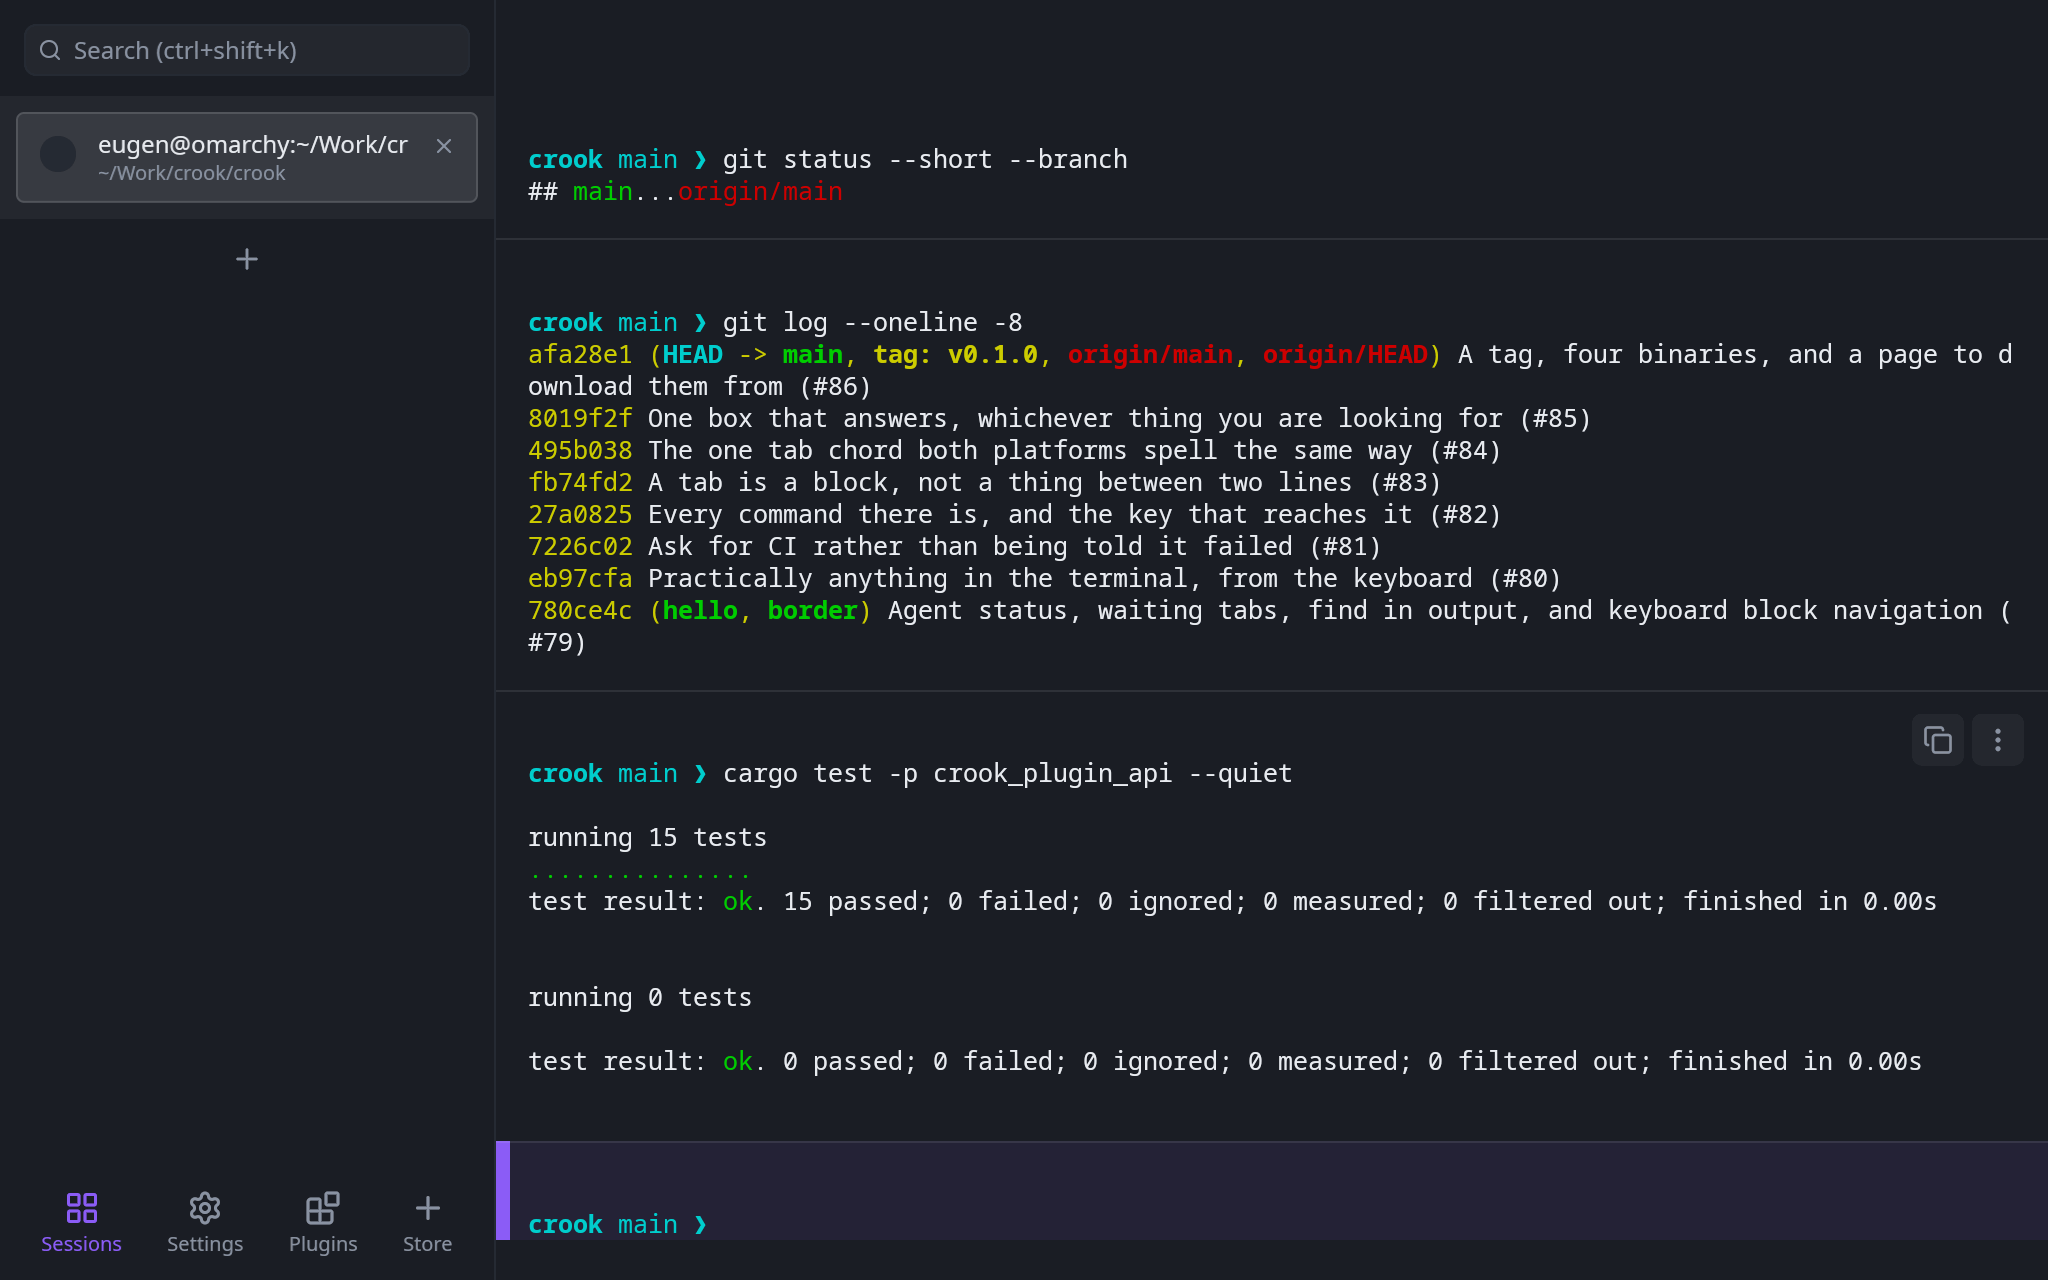
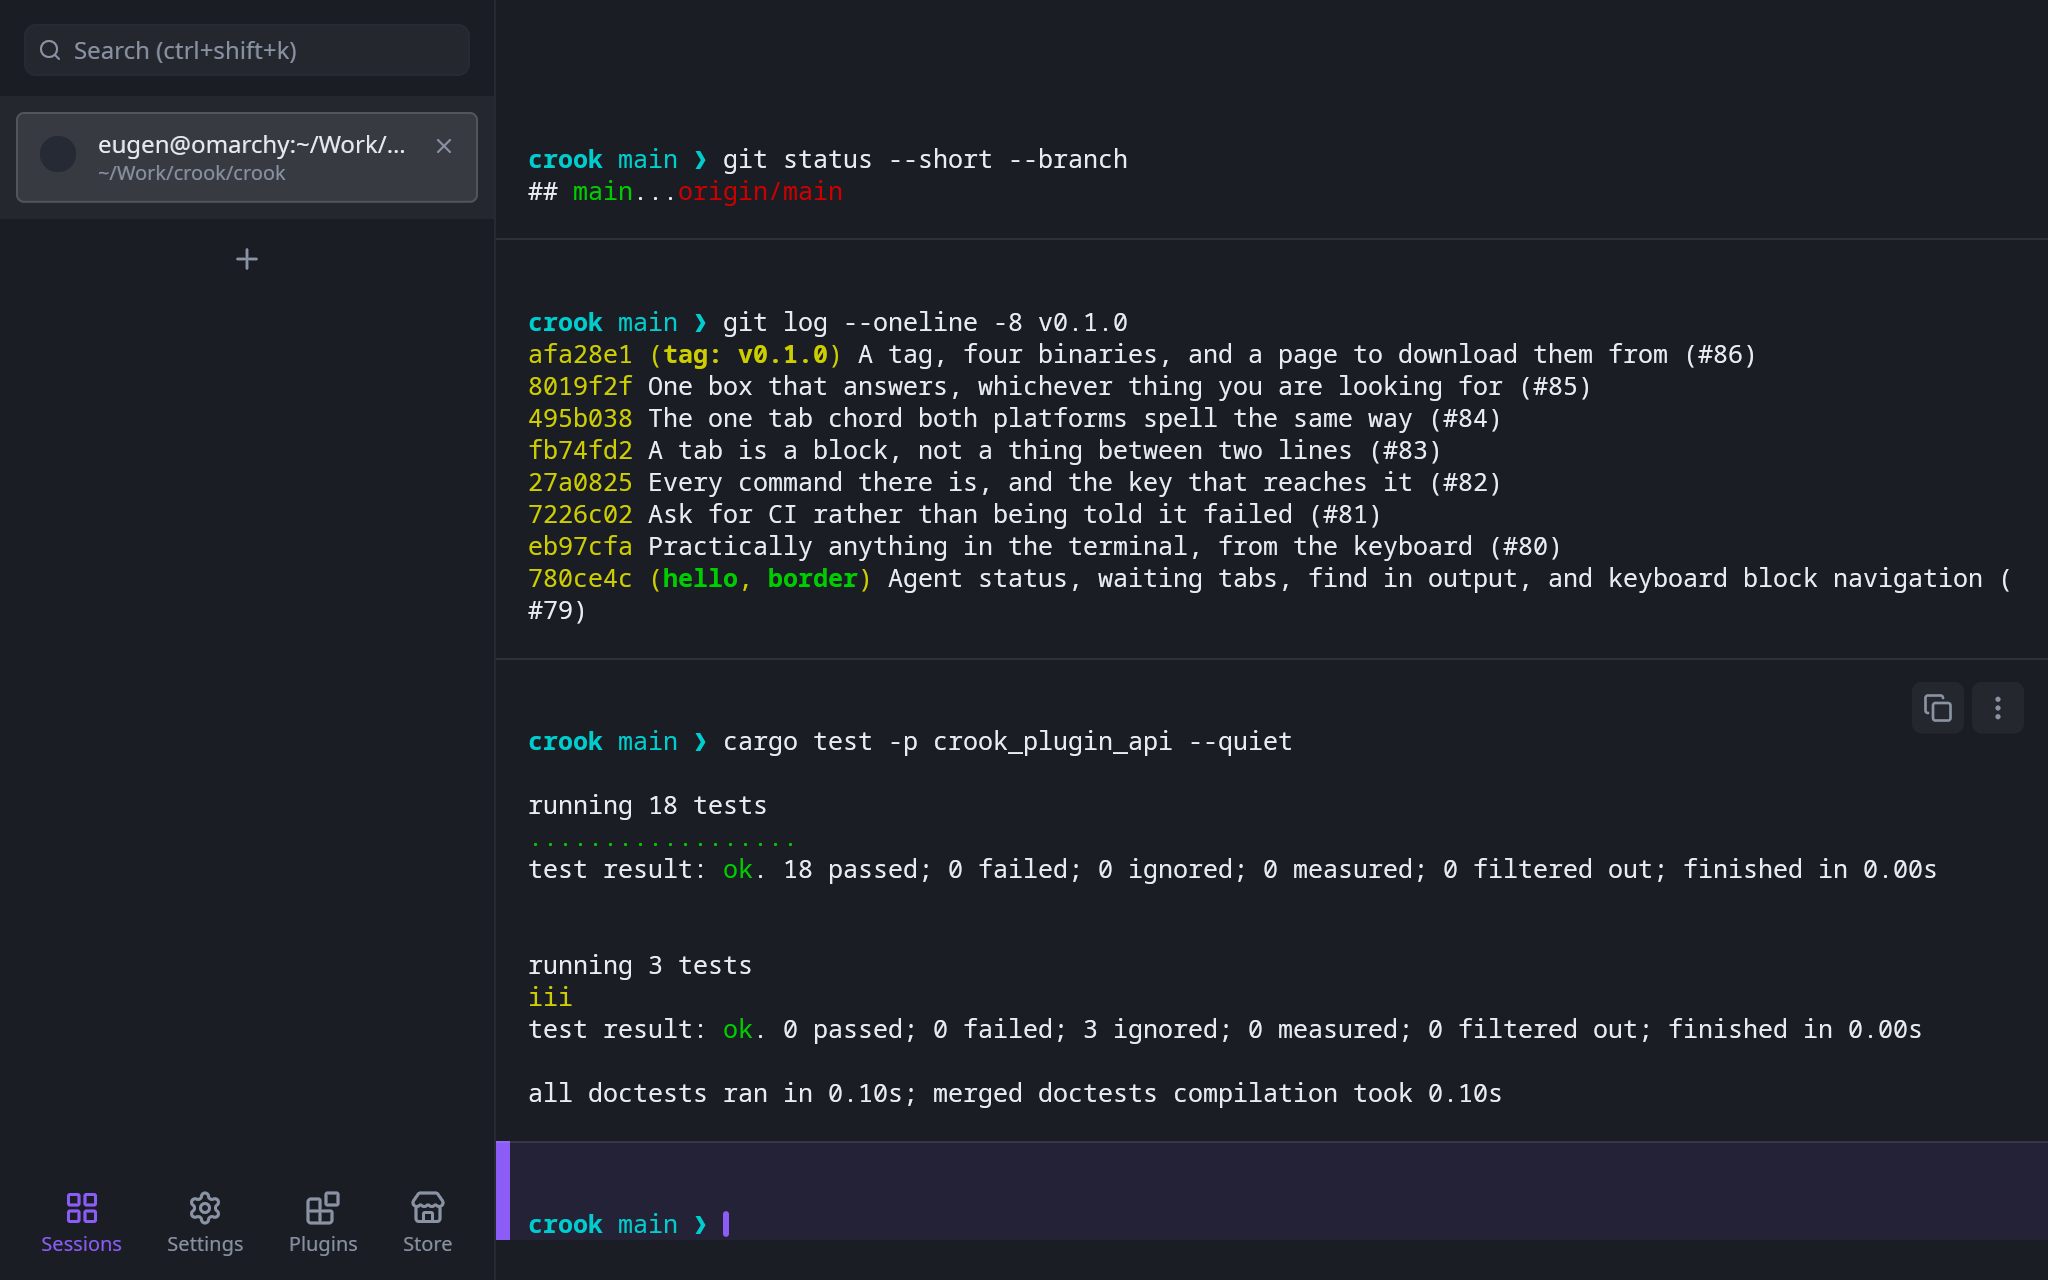
README: the two pictures with a git log in them, re-rendered and pinned
blocks.png and find.png were rendered on the 10th, with a "+" where the
rail's Store is now, and their git log was whatever the log was that day:
the README's sentence about the find counting three was true of that log
and of no later one — rendered today, the bar said "No results".

Both are rendered again with the chrome as it is, and the commands print
the log up to the v0.1.0 tag, so they say the same thing whenever they
are rendered next and the sentence stays true. tabs.png, palette.png and
plugins.png are current and left alone.

diff --git a/README.md b/README.md
@@ -56,15 +56,16 @@ not allowing.
 
 These are rendered by Crook itself rather than captured from a window — `--snapshot` draws one
 frame of the real view tree to a PNG, which is how a picture of the application is the same on
-every machine:
+every machine. The two that print a git log print it up to the `v0.1.0` tag, so that they say
+the same thing whenever they are rendered again and the find still counts three:
 
 ```sh
 ./script/run --snapshot docs/images/tabs.png            # then cropped to the panel
 ./script/run --run 'git status --short --branch' \
-             --run 'git log --oneline -8' \
+             --run 'git log --oneline -8 v0.1.0' \
              --run 'cargo test -p crook_plugin_api --quiet' \
              --hover-block 2 --snapshot docs/images/blocks.png
-./script/run --run 'git log --oneline -12' \
+./script/run --run 'git log --oneline -12 v0.1.0' \
              --find-output tab --snapshot docs/images/find.png
 ./script/run --action 'crook/palette/open rec' --snapshot docs/images/palette.png
 ./script/run --dev-plugin ../crook-pirate/target/wasm32-unknown-unknown/release/pirate.wasm \
